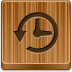
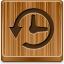
subo los botones de avanzar.png y retroceder.png actualizados en mi Branch. Cesar

diff --git a/styles/style.css b/styles/style.css
@@ -14,6 +14,11 @@ body {
 	padding: 0;
 }
 
+.botones{
+
+box-shadow: 5px 5px 5px #000;
+}
+
 /* EVENTOS */
 
 #timeline-lineas {
